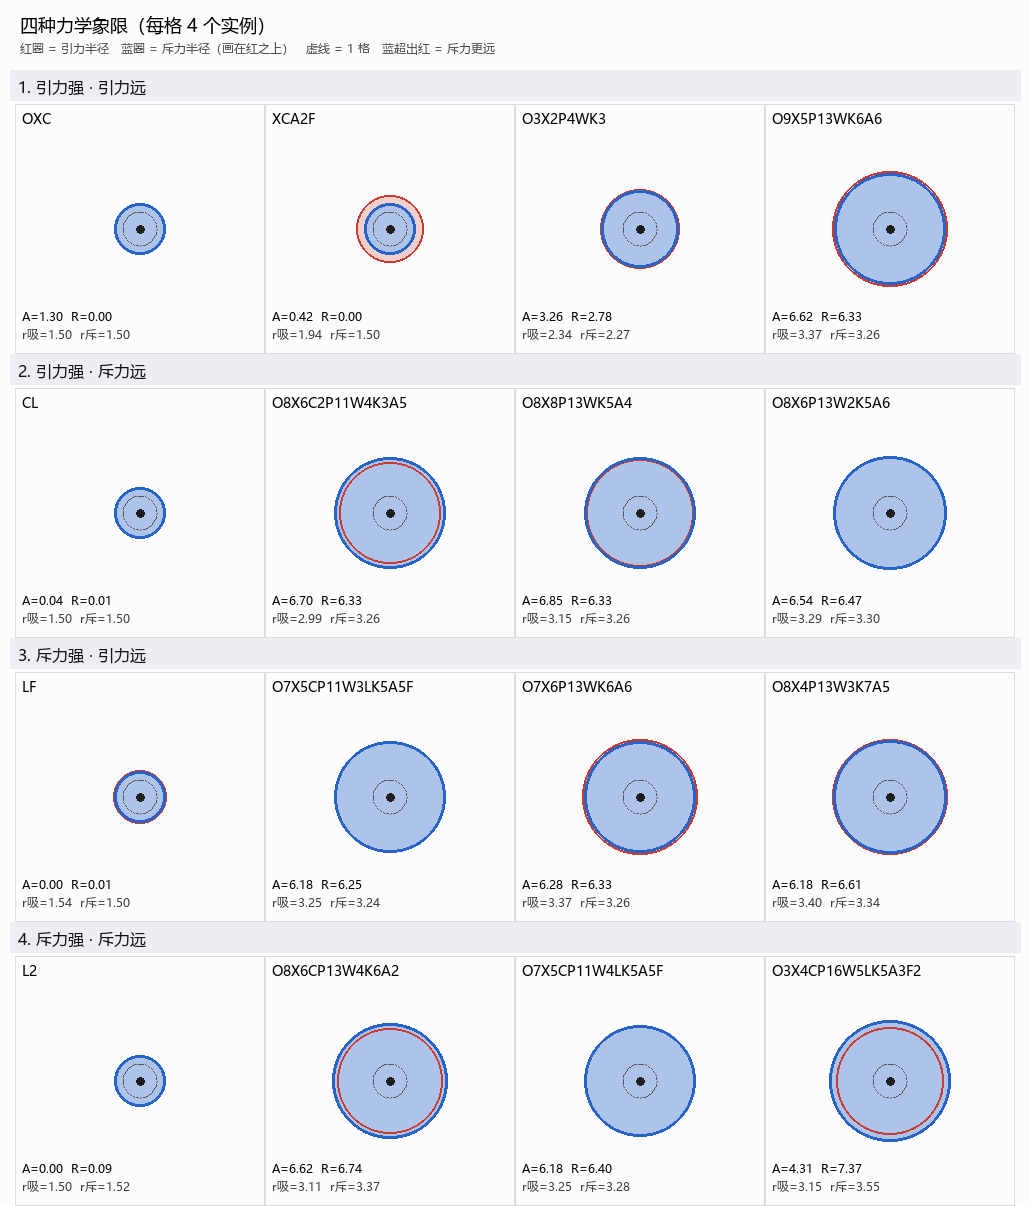
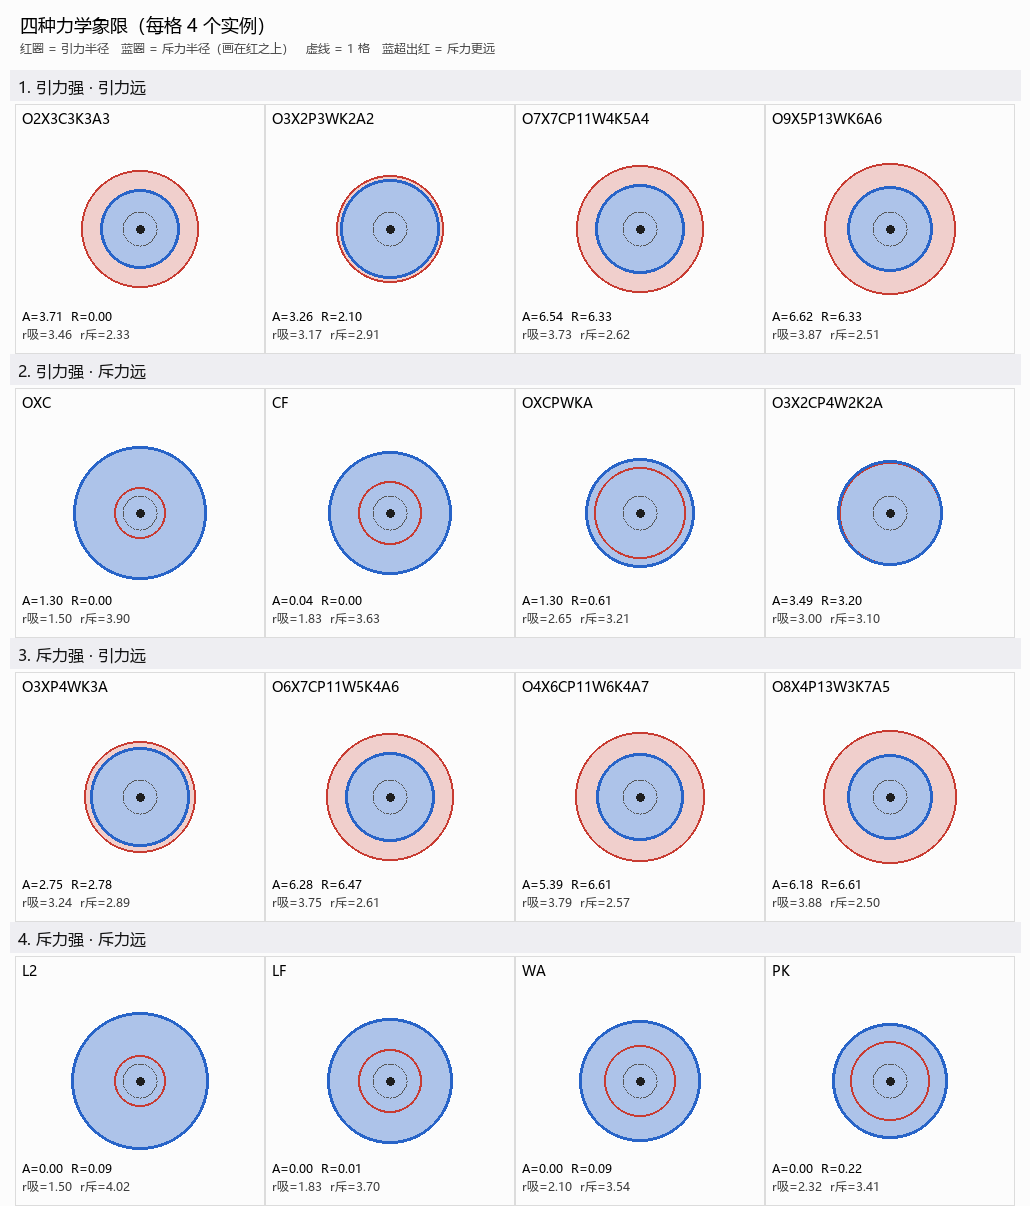
半径强对比：半径差中位 1.15 格，四象限视觉可辨

diff --git a/examples/lattice_sim.py b/examples/lattice_sim.py
@@ -53,9 +53,10 @@ def four_values(formula: str) -> tuple[float, float, float, float]:
     # ---- 幂次校准 + 温和缩放：让四种组合的分布接近均匀，同时保持力的量级
     att = min(A_MAX, 10.8 * (a ** 2.5))
     rep = min(R_MAX, 10.8 * (m ** 3.0))
-    # 半径与强度**解耦**：引力半径由散素决定，斥力半径由动素决定
-    d_att = R0 + (R1 - R0) * (s ** 2.0)
-    d_rep = R0 + (R1 - R0) * (m ** 3.0)
+    # 半径**强对比**：散素把"作用距离预算"分给引力，
+    # 剩下的（1−散）加上动素分给斥力。于是两者差距明显。
+    d_att = R0 + (R1 - R0) * s
+    d_rep = R0 + (R1 - R0) * (0.8 * (1.0 - s) + 0.2 * m)
     return att, rep, d_att, d_rep
 
 
